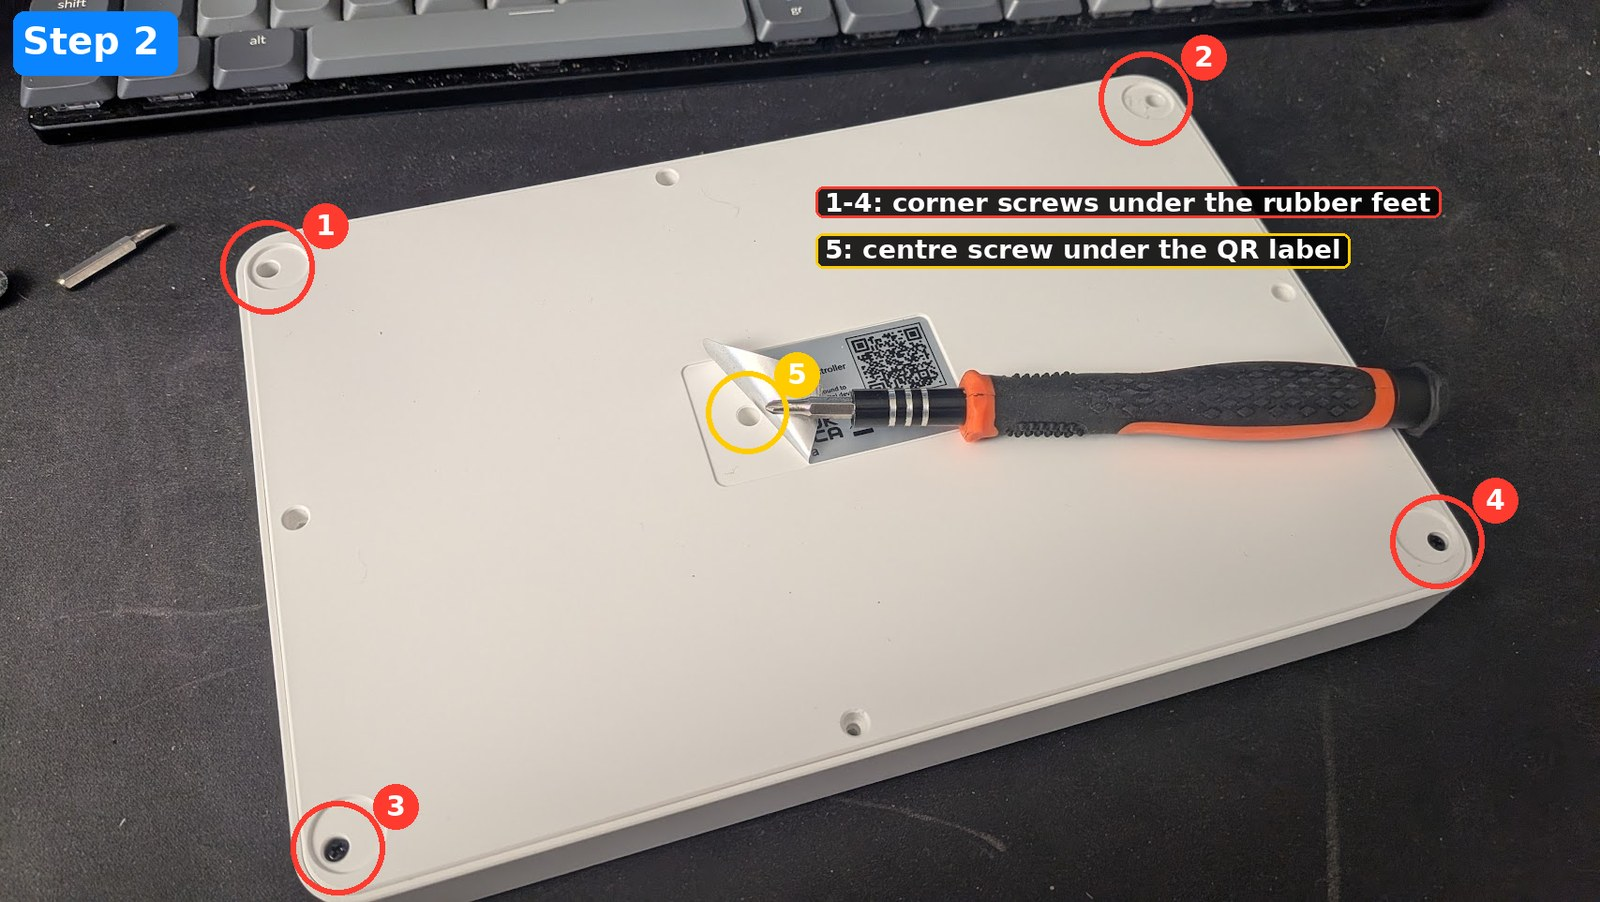
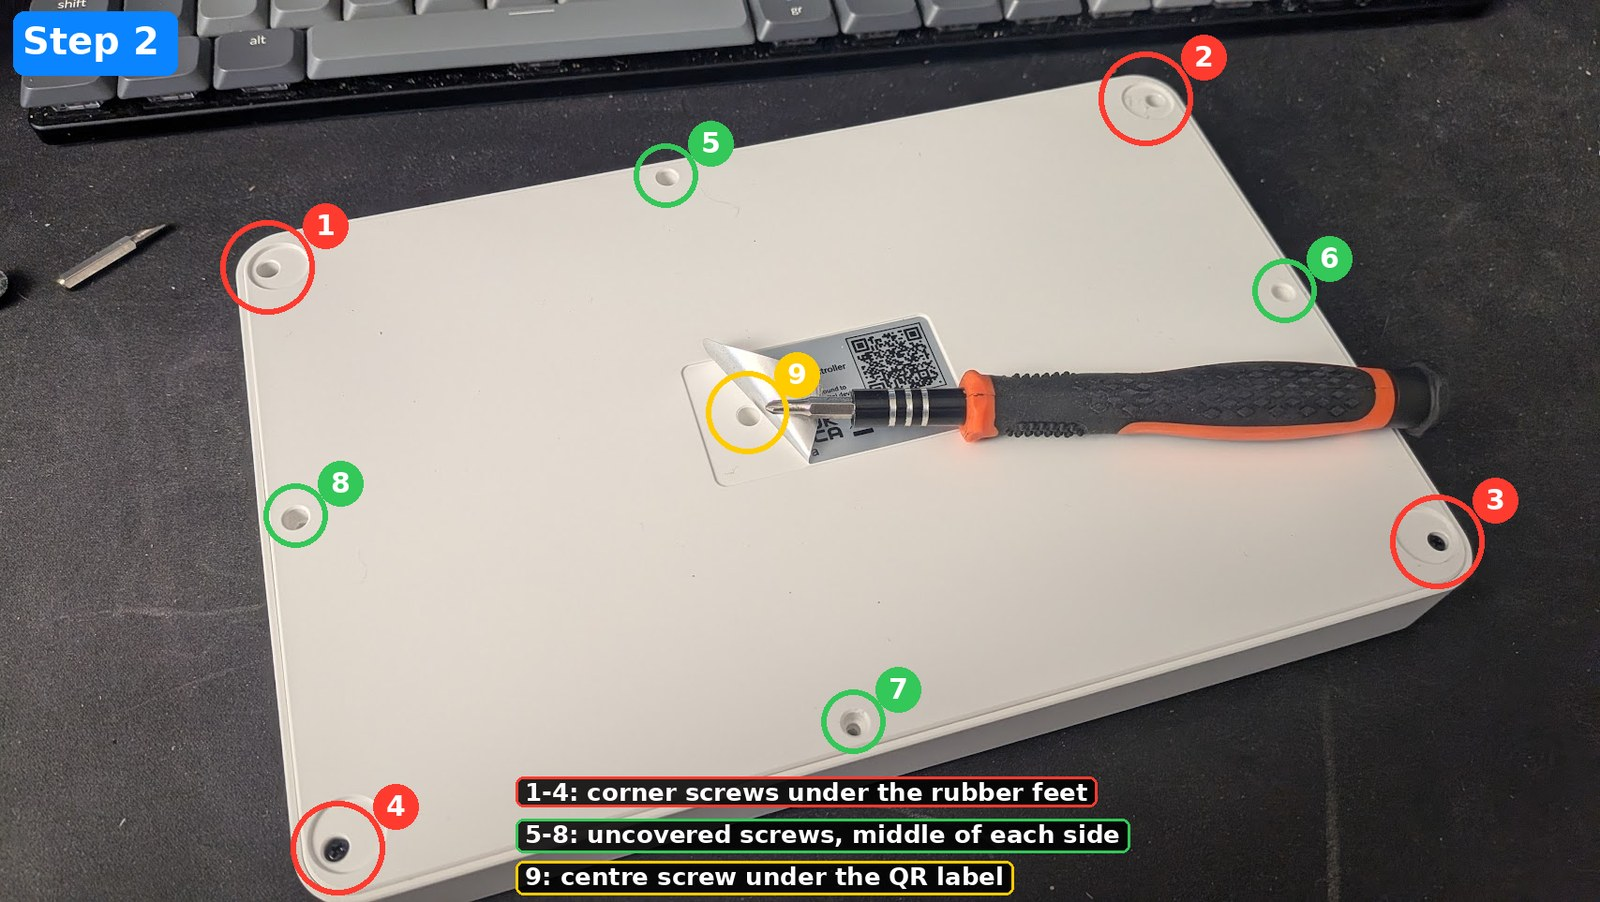
Update guide: 9 case screws, battery first, loose sheet orientation, MidiSuite links

diff --git a/README.md b/README.md
@@ -16,7 +16,7 @@ Spacers are **laser-cut** (self-adhesive paper), **3D-printed**, or just **strip
   - laser-cut self-adhesive (sticker) paper, files below
   - 3D-printed spacers (0.3 mm thick), file below
   - no laser, no printer? Strips of electrical tape (see below)
-- Something to keep screws in, with two separate compartments: 5 case screws and 9 PCB screws (they're different)
+- Something to keep screws in, with two separate compartments: 9 case screws and 9 PCB screws (they're different)
 
 ## Files
 
@@ -65,7 +65,7 @@ Cut strips of electrical tape and stick them in the cavities instead of the spac
 
 ### 1. Pull the knobs
 
-Pull all 8 rubber knobs straight up.
+Use a flat screwdriver and go **very slowly**. Slide it under the edge of a knob and lift a little, then move around the knob and lift from different angles. Never pull on one side only, or you'll bend the potentiometer. Repeat for all 8 knobs.
 
 ![Knobs off](images/01-knobs-off.jpg)
 
@@ -74,7 +74,10 @@ Pull all 8 rubber knobs straight up.
 Flip the unit over.
 
 - **1 to 4**: the four corner screws are hidden under the round rubber feet. Pry the feet off, then undo the screws.
-- **5**: peel the QR label back to find the centre screw, and undo it.
+- **5 to 8**: four uncovered screws, in the middle of each side.
+- **9**: peel the QR label back to find the centre screw, and undo it.
+
+That's 9 case screws in total.
 
 ![Back screws](images/02-back-screws.jpg)
 
@@ -88,15 +91,15 @@ Lift the bottom plate off. You now see the PCB (with the battery) sitting in the
 
 ### 4. Remove the 9 PCB screws
 
-Undo the 9 black screws that hold the PCB. The photo shows them in place.
+Undo the 9 black screws that hold the PCB. The photo shows the 9 screw holes, with the screws already out.
 
-> **Careful: the case screws and the PCB screws are not the same.** Keep them in two separate piles. The hole in the middle of the PCB is not for a PCB screw: it lets the **case screw** (step 2, screw 5) go through the PCB. When you put the PCB back, don't screw anything into that hole.
+> **Careful: the case screws and the PCB screws are not the same.** Keep them in two separate piles. The hole in the middle of the PCB is not for a PCB screw: it lets the **case screw** (step 2, screw 9) go through the PCB. When you put the PCB back, don't screw anything into that hole.
 
 ![PCB screws](images/04-pcb-screws.jpg)
 
 ### 5. Lift out the PCB
 
-Turn the PCB over, pad side up. Take it out gently. The black squares stay with the PCB side, and the silicone pad cavities in the top shell are now empty.
+Take the PCB out gently. The sheet with the black squares is a **separate, loose sheet**, not attached to the PCB or to the case. **Pay attention to its orientation**: it must go back the same way up and the same way round. The easy way: lay it down on the PCB as if you were opening the page of a book, so it keeps its orientation. The pad cavities in the top shell are now empty.
 
 ![PCB out](images/05-pcb-out.jpg)
 
@@ -119,11 +122,12 @@ Do all 16. Don't leave any out, or that pad will stay dull.
 
 Reverse the steps:
 
-1. Put the PCB back, pad side down, lined up on its posts.
-2. Refit the 9 black PCB screws, and only those. Leave the centre hole empty (it's for the case screw, see step 4).
-3. Plug the battery back in (last, once the PCB is screwed down).
-4. Fit the bottom plate and refit the 5 case screws (4 corners and the centre one, which goes through the PCB hole).
-5. Put the rubber feet back, stick the QR label back, push the 8 knobs on.
+1. Put the black-square sheet back in the cavities, over the spacers, in the same orientation as it came out. Take your time: this is where it's easy to get it flipped.
+2. Put the PCB back, pad side down, lined up on its posts.
+3. Refit the 9 black PCB screws, and only those. Leave the centre hole empty (it's for the case screw, see step 4).
+4. Plug the battery back in (last, once the PCB is screwed down).
+5. Fit the bottom plate and refit the 9 case screws (4 corners, 4 mid-side, and the centre one, which goes through the PCB hole).
+6. Put the rubber feet back, stick the QR label back, push the 8 knobs on.
 
 Plug it in and power it on. Last step: calibrate the pads in software.
 
